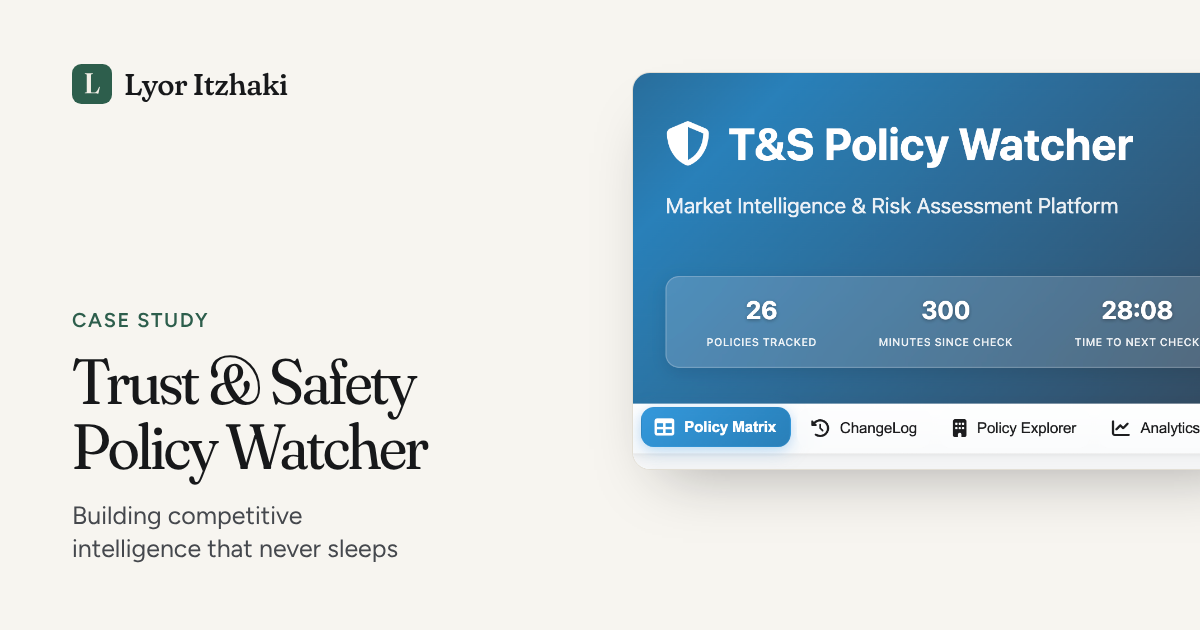
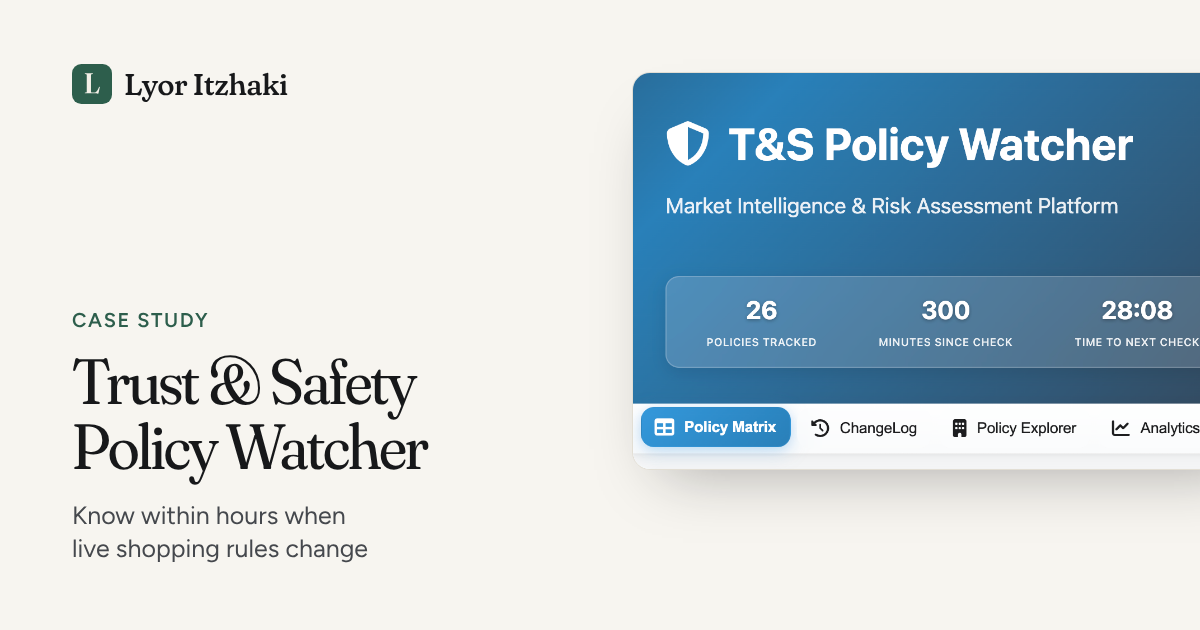
Problem-first Policy Watcher title, credit DebtCat designers, center the glance block
Claude-Session: https://claude.ai/code/session_01TcshGvUTEgrB2wc9t4wNBb

Changed region(s): [[0.0617, 0.7841, 0.3392, 0.9048]]

diff --git a/blog/debtcat/index.html b/blog/debtcat/index.html
@@ -108,7 +108,7 @@
             <div class="article-body">
 <dl class="glance">
 <div><dt>Problem</dt><dd>People in collections rarely know their rights or how to dispute a bad debt.</dd></div>
-<div><dt>My role</dt><dd>Founder. Former debt collection PM. I led product and built most of it myself with AI tools.</dd></div>
+<div><dt>My role</dt><dd>Founder. Former debt collection PM. I led product, brought on two designers, and built most of it with AI tools.</dd></div>
 <div><dt>What I built</dt><dd>A free "first aid kit": plain guides, an AI chatbot, and a dispute letter generator. No sign-up.</dd></div>
 <div><dt>Results</dt><dd>All three tools live and free. Revenue only from optional mailing. Built on three stacks with almost no dev budget.</dd></div>
 </dl>
@@ -140,12 +140,12 @@
 <li><strong>Ask</strong>: an AI chatbot for specific questions</li>
 <li><strong>Act</strong>: a generator that writes a legally sound dispute letter</li>
 </ol>
-<p>Our designer, Dalma, put it well: "People needed to feel safe before they'd engage." We cut friction wherever we could, even nice-to-have features.</p>
+<p>I recruited two talented designers, <a href="https://www.linkedin.com/in/etele-illes/">Etele</a> and <a href="https://www.linkedin.com/in/dalmaturk/">Dalma</a>, to shape the product with me. Dalma put the core idea well: "People needed to feel safe before they'd engage." We cut friction wherever we could, even nice-to-have features.</p>
 <figure class="is-narrow">
 <img src="/assets/images/debtcat_chat.png" alt="DebtCat AI chatbot answering a debt question" width="640" height="743" loading="lazy" decoding="async">
 </figure>
 <h3>Let the product pick the stack</h3>
-<p>DebtCat moved through three stacks. WordPress got content online fastest. Webflow gave us the design control we needed. Firebase cut costs, because we were paying for features we didn't need yet and I wanted that budget for users. Each move cost a weekend of rebuilding and some technical debt.</p>
+<p>DebtCat moved through three stacks. WordPress got content online fastest. Once Etele and Dalma joined, Webflow gave us the design control we needed. Firebase cut costs, because we were paying for features we didn't need yet and I wanted that budget for users. Each move cost a weekend of rebuilding and some technical debt.</p>
 <h3>Build it myself with AI</h3>
 <p>A few years ago this would have needed a dev team. I planned each feature the usual PM way, then used ChatGPT, Cursor, and Windsurf to draft components, wire them up, and debug. AI didn't replace product thinking. It removed the wait between deciding and shipping.</p>
 <h2>What got in the way</h2>
@@ -184,7 +184,7 @@
                         <div class="case-image">
                             <img src="/assets/images/ts_policy_watcher_thumb.png" alt="Trust &amp; Safety Policy Watcher dashboard" width="1200" height="675" loading="lazy" decoding="async">
                         </div>
-                        <h3 class="case-title">Trust &amp; Safety Policy Watcher: Building Competitive Intelligence That Never Sleeps</h3>
+                        <h3 class="case-title">Trust &amp; Safety Policy Watcher: Know Within Hours When Live Shopping Rules Change</h3>
                         <p class="case-excerpt">Turning manual competitor policy checks into an AI system that watches 25+ policies and flags what changed.</p>
                         <span class="link-arrow">Read the case study <span aria-hidden="true">&rarr;</span></span>
                     </a>

diff --git a/blog/trust-safety-policy-watcher/index.html b/blog/trust-safety-policy-watcher/index.html
@@ -16,7 +16,7 @@
     <meta property="og:site_name" content="Lyor Itzhaki">
     <meta property="og:locale" content="en_US">
     <meta property="og:url" content="https://lyori.com/blog/trust-safety-policy-watcher">
-    <meta property="og:title" content="Trust &amp; Safety Policy Watcher: Building Competitive Intelligence That Never Sleeps">
+    <meta property="og:title" content="Trust &amp; Safety Policy Watcher: Know Within Hours When Live Shopping Rules Change">
     <meta property="og:description" content="How I turned manual competitor policy checks into an automated AI system that monitors 25+ Trust &amp; Safety policies and sends product teams concise summaries.">
     <meta property="og:image" content="https://lyori.com/images/og/trust-safety-policy-watcher.png">
     <meta property="og:image:width" content="1200">
@@ -27,7 +27,7 @@
     <meta property="article:tag" content="Trust &amp; Safety">
     <meta property="article:tag" content="AI automation">
     <meta name="twitter:card" content="summary_large_image">
-    <meta name="twitter:title" content="Trust &amp; Safety Policy Watcher: Building Competitive Intelligence That Never Sleeps">
+    <meta name="twitter:title" content="Trust &amp; Safety Policy Watcher: Know Within Hours When Live Shopping Rules Change">
     <meta name="twitter:description" content="How I turned manual competitor policy checks into an automated AI system that monitors 25+ Trust &amp; Safety policies and sends product teams concise summaries.">
     <meta name="twitter:image" content="https://lyori.com/images/og/trust-safety-policy-watcher.png">
     <meta name="twitter:image:alt" content="Trust &amp; Safety Policy Watcher, a case study by Lyor Itzhaki">
@@ -35,7 +35,7 @@
     {
       "@context": "https://schema.org",
       "@type": "Article",
-      "headline": "Trust & Safety Policy Watcher: Building Competitive Intelligence That Never Sleeps",
+      "headline": "Trust & Safety Policy Watcher: Know Within Hours When Live Shopping Rules Change",
       "description": "How I turned manual competitor policy checks into an automated AI system that monitors 25+ Trust & Safety policies and sends product teams concise summaries.",
       "image": "https://lyori.com/images/og/trust-safety-policy-watcher.png",
       "datePublished": "2025-01-11",
@@ -98,7 +98,7 @@
     <main id="main">
         <article class="article wrap">
             <p class="article-eyebrow"><a href="/blog">Case study</a><span>Trust &amp; Safety, AI automation</span></p>
-            <h1 class="article-title">Trust &amp; Safety Policy Watcher: Building Competitive Intelligence That Never Sleeps</h1>
+            <h1 class="article-title">Trust &amp; Safety Policy Watcher: Know Within Hours When Live Shopping Rules Change</h1>
             <p class="article-dek">How I turned manual competitor policy checks into an automated AI system that watches 25+ Trust &amp; Safety policies and tells product teams what changed.</p>
             <div class="article-byline">
                 <img src="/images/lyor-480.jpg" alt="" class="avatar" width="44" height="44">

diff --git a/blog/index.html b/blog/index.html
@@ -37,7 +37,7 @@
       "hasPart": [
         {
           "@type": "Article",
-          "headline": "Trust & Safety Policy Watcher: Building Competitive Intelligence That Never Sleeps",
+          "headline": "Trust & Safety Policy Watcher: Know Within Hours When Live Shopping Rules Change",
           "url": "https://lyori.com/blog/trust-safety-policy-watcher",
           "datePublished": "2025-01-11"
         },
@@ -112,7 +112,7 @@
                         <div class="case-image">
                             <img src="/assets/images/ts_policy_watcher_thumb.png" alt="Trust &amp; Safety Policy Watcher dashboard" width="1200" height="675" loading="lazy" decoding="async">
                         </div>
-                        <h2 class="case-title">Trust &amp; Safety Policy Watcher: Building Competitive Intelligence That Never Sleeps</h2>
+                        <h2 class="case-title">Trust &amp; Safety Policy Watcher: Know Within Hours When Live Shopping Rules Change</h2>
                         <p class="case-date">January 11, 2025</p>
                         <p class="case-excerpt">Turning manual competitor policy checks into an AI system that watches 25+ policies and flags what changed.</p>
                         <span class="link-arrow">Read the case study <span aria-hidden="true">&rarr;</span></span>

diff --git a/blog/findmepet/index.html b/blog/findmepet/index.html
@@ -165,7 +165,7 @@
                         <div class="case-image">
                             <img src="/assets/images/ts_policy_watcher_thumb.png" alt="Trust &amp; Safety Policy Watcher dashboard" width="1200" height="675" loading="lazy" decoding="async">
                         </div>
-                        <h3 class="case-title">Trust &amp; Safety Policy Watcher: Building Competitive Intelligence That Never Sleeps</h3>
+                        <h3 class="case-title">Trust &amp; Safety Policy Watcher: Know Within Hours When Live Shopping Rules Change</h3>
                         <p class="case-excerpt">Turning manual competitor policy checks into an AI system that watches 25+ policies and flags what changed.</p>
                         <span class="link-arrow">Read the case study <span aria-hidden="true">&rarr;</span></span>
                     </a>

diff --git a/index.html b/index.html
@@ -342,7 +342,7 @@
                         <div class="case-image">
                             <img src="/assets/images/ts_policy_watcher_thumb.png" alt="Trust &amp; Safety Policy Watcher dashboard" loading="lazy">
                         </div>
-                        <h3 class="case-title">Trust &amp; Safety Policy Watcher: Building Competitive Intelligence That Never Sleeps</h3>
+                        <h3 class="case-title">Trust &amp; Safety Policy Watcher: Know Within Hours When Live Shopping Rules Change</h3>
                         <p class="case-excerpt">Turning manual competitor policy checks into an AI system that watches 25+ policies and flags what changed.</p>
                         <span class="link-arrow">Read the case study <span aria-hidden="true">&rarr;</span></span>
                     </a>

diff --git a/case-study.css b/case-study.css
@@ -167,17 +167,21 @@
 }
 
 /* At a glance: the four facts a busy reader needs first. */
+.article-body:has(> .glance:first-child) {
+  margin-top: 0;
+}
+
 .article-body .glance {
   display: grid;
   grid-template-columns: repeat(2, minmax(0, 1fr));
-  gap: 20px 32px;
-  margin: 0 0 8px;
-  padding: 24px 0;
+  gap: 28px 40px;
+  margin: 0;
+  padding: 36px 0;
   border-bottom: 1px solid var(--line);
 }
 
 .glance dt {
-  font-size: 0.78rem;
+  font-size: 0.9rem;
   font-weight: 600;
   letter-spacing: 0.08em;
   text-transform: uppercase;
@@ -185,8 +189,8 @@
 }
 
 .glance dd {
-  margin: 6px 0 0;
-  font-size: 1rem;
+  margin: 8px 0 0;
+  font-size: 1.05rem;
   line-height: 1.5;
   color: var(--ink);
 }
